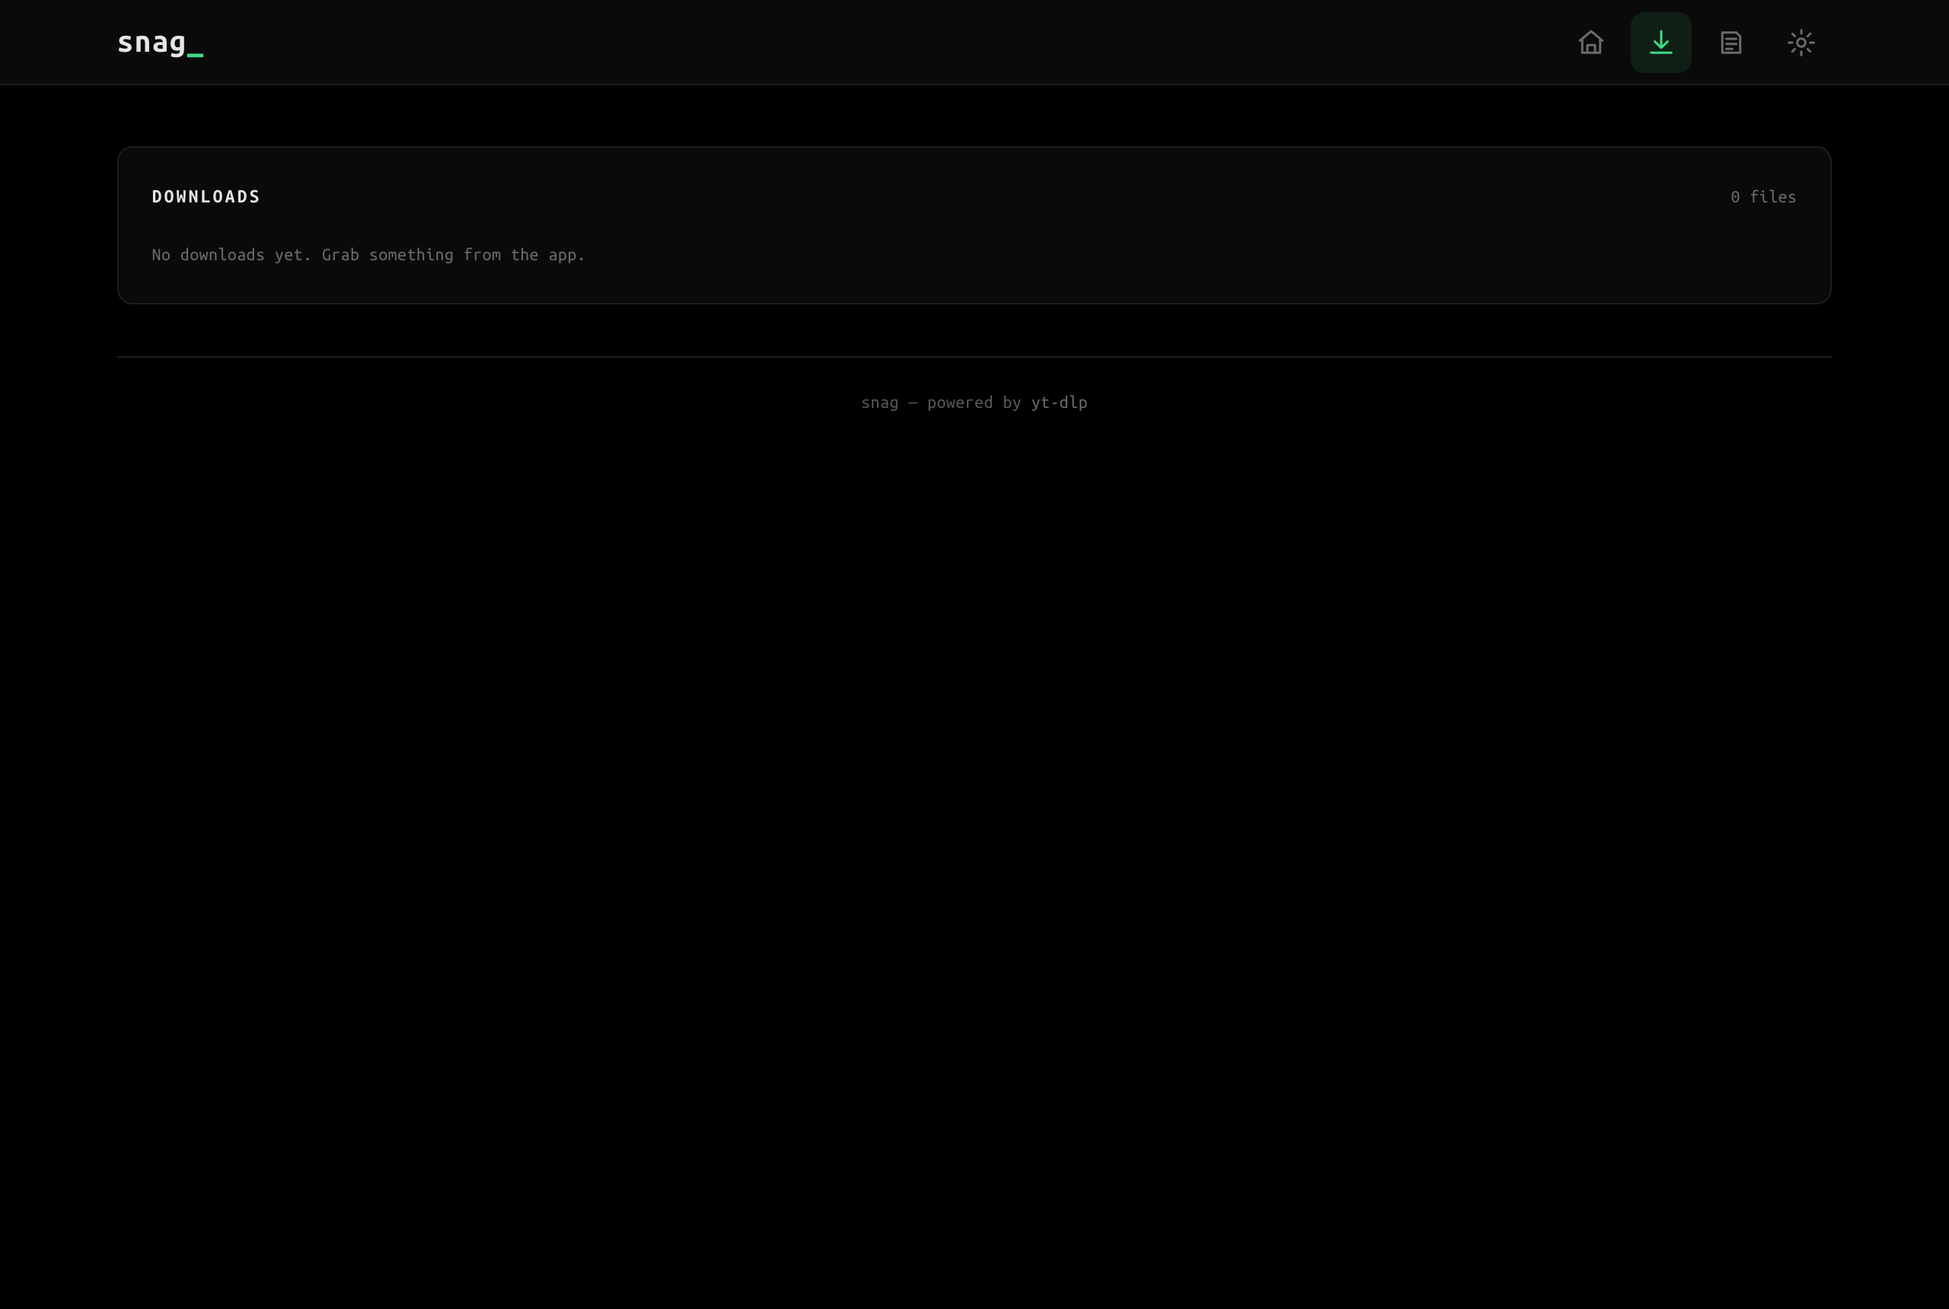
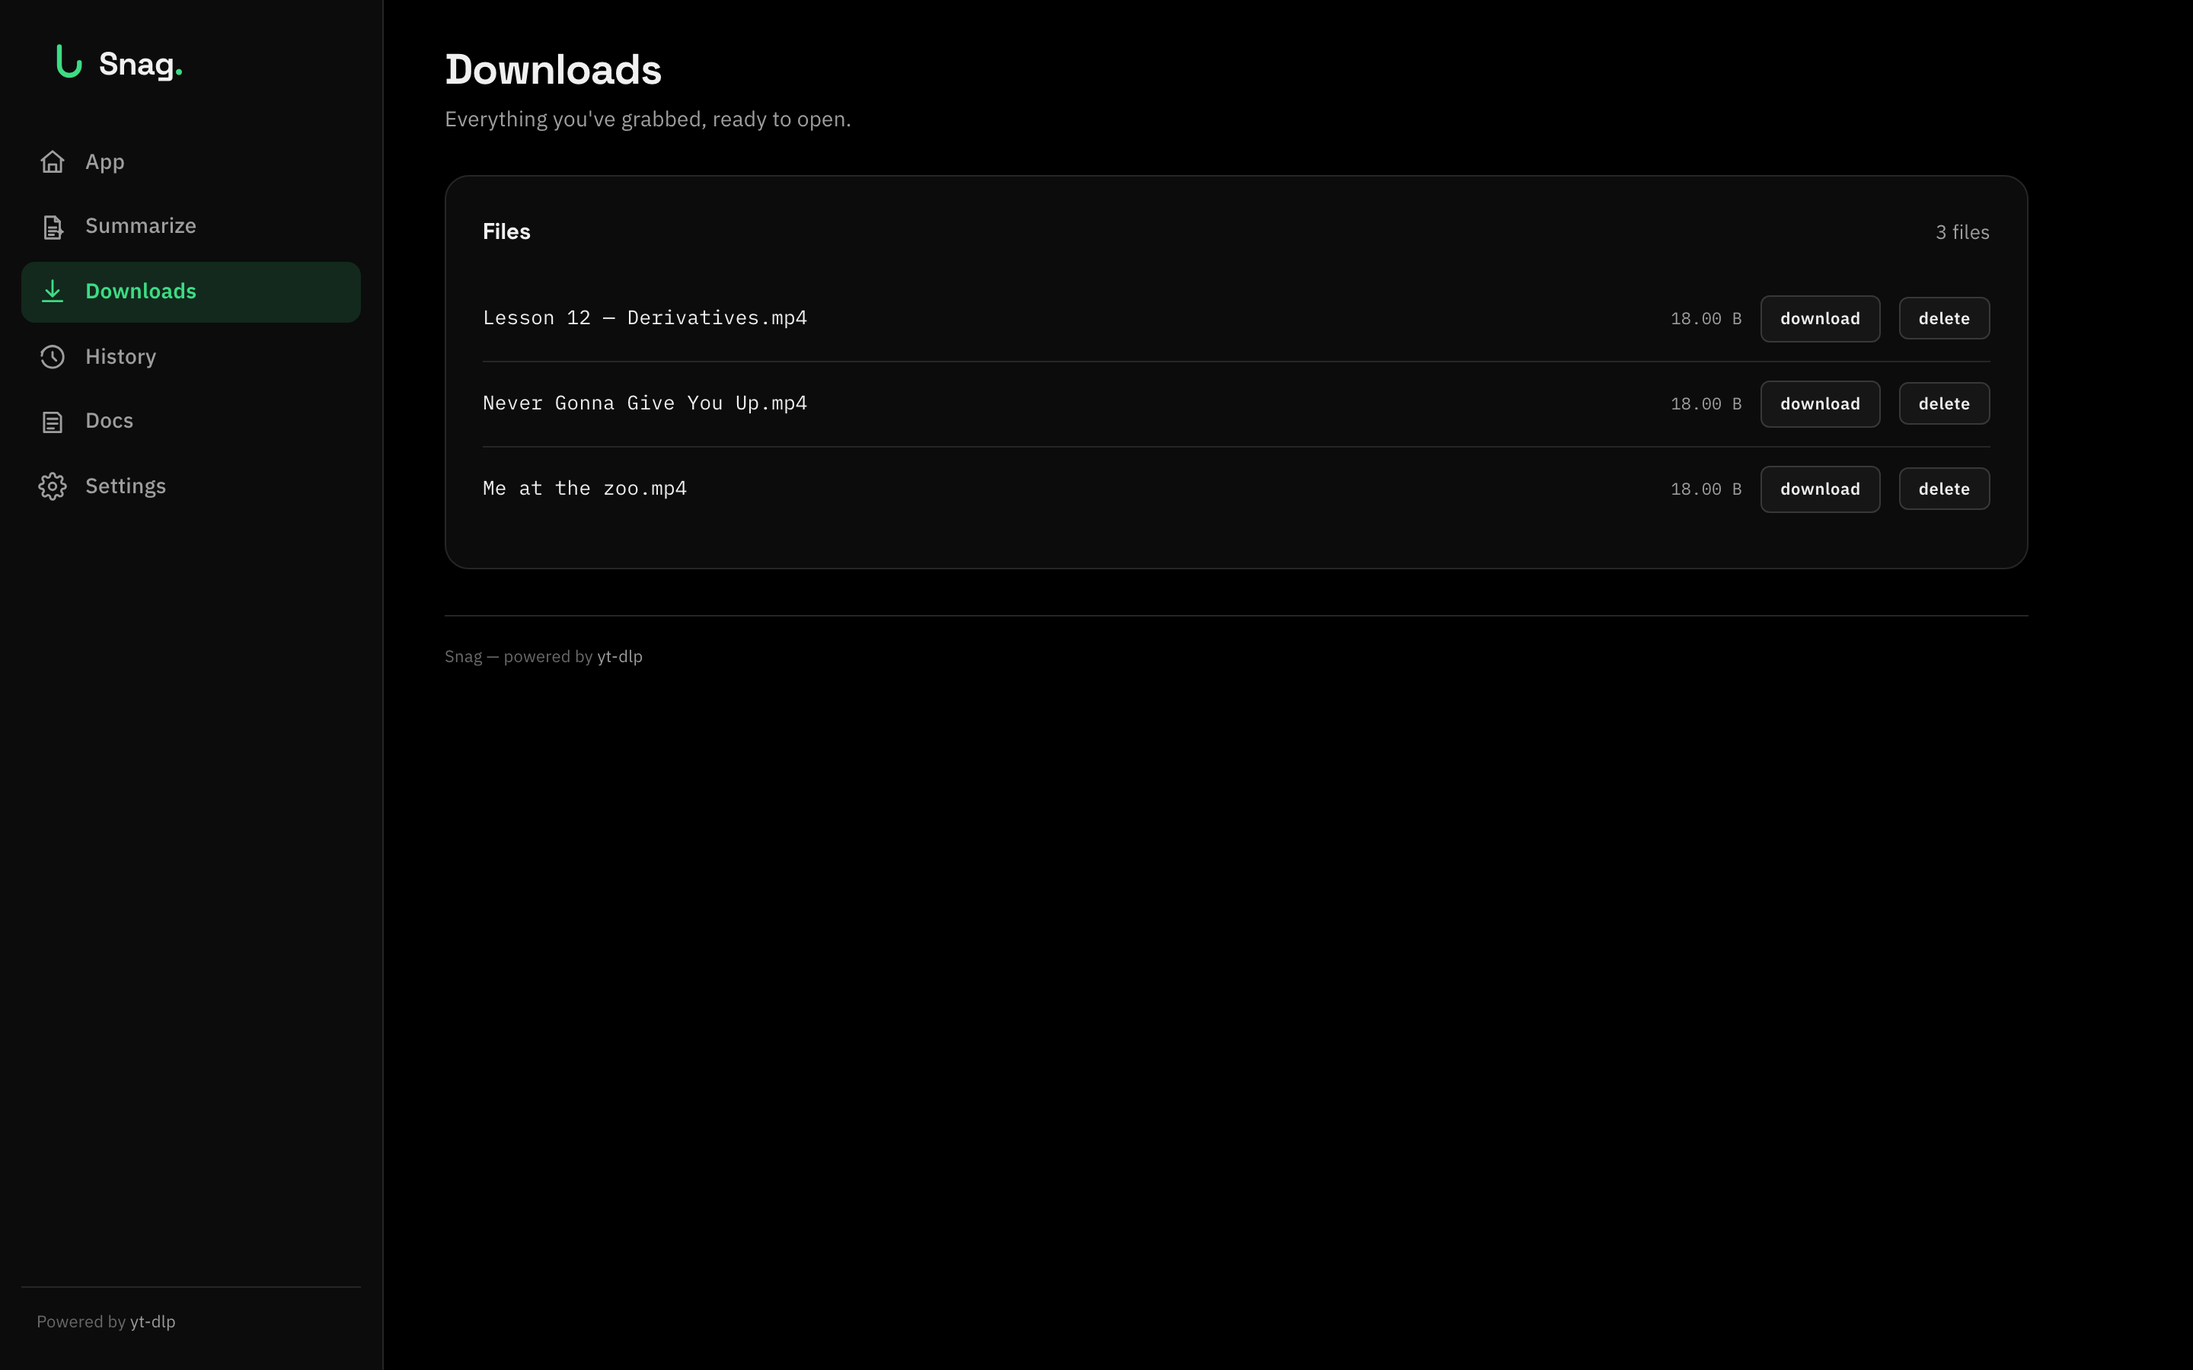
Add docs landing page with hero screenshot and social image
- New src/pages/index.js landing page (hero, features, docs links)
- Updated screenshots in docs-assets/ and docusaurus/static/img/
- New snag-social.png for OG/meta cards
- Remove slug: / from introduction.md so the landing page owns the
  root route and the doc gets its natural /introduction path

diff --git a/docusaurus/src/pages/index.js b/docusaurus/src/pages/index.js
@@ -1,0 +1,179 @@
+import React from 'react';
+import Link from '@docusaurus/Link';
+import useBaseUrl from '@docusaurus/useBaseUrl';
+import Layout from '@theme/Layout';
+import styles from './index.module.css';
+
+const features = [
+  {
+    icon: (
+      <svg viewBox="0 0 24 24" fill="none" stroke="currentColor" strokeWidth="2" strokeLinecap="round" strokeLinejoin="round" width="22" height="22"><path d="M12 3v12m0 0l-4-4m4 4l4-4" /><path d="M4 21h16" /></svg>
+    ),
+    title: 'Single videos',
+    desc: 'Best, 1080p, 720p or 480p — or pure audio with selectable bitrate and codec.',
+  },
+  {
+    icon: (
+      <svg viewBox="0 0 24 24" fill="none" stroke="currentColor" strokeWidth="2" strokeLinecap="round" strokeLinejoin="round" width="22" height="22"><rect x="3" y="3" width="7" height="7" rx="1.5" /><rect x="14" y="3" width="7" height="7" rx="1.5" /><rect x="3" y="14" width="7" height="7" rx="1.5" /><rect x="14" y="14" width="7" height="7" rx="1.5" /></svg>
+    ),
+    title: 'Bulk downloads',
+    desc: 'Whole playlists, channels and user profiles in one go — resumable and cancelable.',
+  },
+  {
+    icon: (
+      <svg viewBox="0 0 24 24" fill="none" stroke="currentColor" strokeWidth="2" strokeLinecap="round" strokeLinejoin="round" width="22" height="22"><path d="M9 18V5l10-2v13" /><circle cx="6.5" cy="18" r="2.5" /><circle cx="16.5" cy="16" r="2.5" /></svg>
+    ),
+    title: 'Audio extraction',
+    desc: 'MP3, M4A, WAV, OGG and FLAC with selectable bitrate — 5 codecs, no CLI.',
+  },
+  {
+    icon: (
+      <svg viewBox="0 0 24 24" fill="none" stroke="currentColor" strokeWidth="2" strokeLinecap="round" strokeLinejoin="round" width="22" height="22"><path d="M12 3l1.9 4.8L18.7 9.7l-4.8 1.9L12 16.4l-1.9-4.8L5.3 9.7l4.8-1.9z" /><path d="M19 15l.8 2 2 .8-2 .8-.8 2-.8-2-2-.8 2-.8z" /></svg>
+    ),
+    title: 'AI Summarize',
+    desc: 'Turn any video into a clean Markdown article with your own OpenAI-compatible endpoint.',
+  },
+  {
+    icon: (
+      <svg viewBox="0 0 24 24" fill="none" stroke="currentColor" strokeWidth="2" strokeLinecap="round" strokeLinejoin="round" width="22" height="22"><path d="M22 12h-4l-3 8L9 4l-3 8H2" /></svg>
+    ),
+    title: 'Live progress',
+    desc: 'Real-time per-file progress bars with bulk file-by-file tracking.',
+  },
+  {
+    icon: (
+      <svg viewBox="0 0 24 24" fill="none" stroke="currentColor" strokeWidth="2" strokeLinecap="round" strokeLinejoin="round" width="22" height="22"><path d="M23 4v6h-6" /><path d="M1 20v-6h6" /><path d="M3.5 9a9 9 0 0 1 14.9-3.4L23 10M1 14l4.6 4.4A9 9 0 0 0 20.5 15" /></svg>
+    ),
+    title: 'Resumable',
+    desc: 'Interrupt a download and pick up where you left off — files on disk are skipped.',
+  },
+];
+
+const docs = [
+  { to: 'deployment', title: 'Deployment', desc: 'Docker, systemd, PM2, Mac/Windows, HTTPS & troubleshooting.' },
+  { to: 'docker', title: 'Docker Deep-Dive', desc: 'Image internals, env vars, volumes, Compose and updates.' },
+  { to: 'configuration', title: 'Configuration', desc: 'Every env var, the auth model and the full HTTP API.' },
+  { to: 'code-reference', title: 'Code Reference', desc: 'A human-written walkthrough of snag.py and the frontend.' },
+  { to: 'yt-dlp-flags', title: 'yt-dlp Flags', desc: 'Every yt-dlp flag Snag exposes and what each does.' },
+  { to: 'ai-summarize', title: 'AI Summarize', desc: 'Setup, config and the transcript → article pipeline.' },
+  { to: 'changelog', title: 'Changelog', desc: 'What changed, version by version.' },
+];
+
+export default function Home() {
+  const heroShot = useBaseUrl('/img/snag-ui.png');
+  return (
+    <Layout
+      title="Snag — self-hosted web UI for yt-dlp"
+      description="Snag is a minimal, self-hosted web UI for yt-dlp: grab videos, playlists, channels and audio from your browser — plus an AI Summarize pipeline.">
+      <main>
+        <section className={styles.hero}>
+          <div className={styles.heroScrim} />
+          <div className={styles.heroInner}>
+            <div className={styles.heroCopy}>
+              <div className={styles.badge}>Self-hosted · v1.3.0</div>
+              <h1 className={styles.heroTitle}>
+                Grab videos, playlists &amp; audio <span className={styles.accent}>from your browser.</span>
+              </h1>
+              <p className={styles.heroSub}>
+                Snag is a minimal, self-hosted web UI for <strong>yt-dlp</strong> — paste a link,
+                pick your options, and watch it download with live progress. Plus an AI
+                Summarize tool that turns any video into a clean Markdown article.
+              </p>
+              <div className={styles.ctaRow}>
+                <Link className="button button--lg" style={{ background: '#3ddc84', color: '#07140c', fontWeight: 800, border: 'none' }} to="introduction">
+                  Start the documentation
+                </Link>
+                <Link
+                  className="button button--lg"
+                  style={{ background: 'transparent', color: '#e8ecf1', border: '1px solid #2f3a45' }}
+                  href="https://github.com/drbiobit/snag">
+                  View on GitHub
+                </Link>
+              </div>
+              <div className={styles.pills}>
+                <span className={styles.pill}>Python 3.10+</span>
+                <span className={styles.pill}>Docker</span>
+                <span className={styles.pill}>No build step</span>
+                <span className={styles.pill}>MIT</span>
+              </div>
+            </div>
+            <div className={styles.heroShot}>
+              <div className={styles.frame}>
+                <div className={styles.shine} />
+                <div className={styles.frameBar}>
+                  <span className={`${styles.dot} ${styles.r}`} />
+                  <span className={`${styles.dot} ${styles.y}`} />
+                  <span className={`${styles.dot} ${styles.g}`} />
+                  <span className={styles.urlBar}><b>localhost</b>:8000 · downloading</span>
+                </div>
+                <img className={styles.frameShot} src={heroShot} alt="Snag — paste a link, pick options, download with live progress" />
+              </div>
+            </div>
+          </div>
+        </section>
+
+        <section className={styles.section}>
+          <div className={styles.sectionInner}>
+            <div className={styles.eyebrow}>What it does</div>
+            <h2 className={styles.sectionTitle}>Everything yt-dlp can do, in a browser</h2>
+            <p className={styles.sectionDesc}>
+              No CLI, no build step, no third-party accounts. It runs on your own box — your
+              downloads never leave your network.
+            </p>
+            <div className={styles.features}>
+              {features.map((f) => (
+                <div key={f.title} className={styles.feature}>
+                  <div className={styles.featIcon}>{f.icon}</div>
+                  <h3 className={styles.featTitle}>{f.title}</h3>
+                  <p className={styles.featDesc}>{f.desc}</p>
+                </div>
+              ))}
+            </div>
+          </div>
+        </section>
+
+        <section className={`${styles.section} ${styles.sectionAlt}`}>
+          <div className={styles.sectionInner}>
+            <div className={styles.eyebrow}>Quick start</div>
+            <div className={styles.quickRow}>
+              <div className={styles.quickCopy}>
+                <h2 className={styles.sectionTitle}>Up in 30 seconds</h2>
+                <p className={styles.sectionDesc}>
+                  Pull the prebuilt image, run it, and open your browser. Account setup happens
+                  on first visit — nothing to configure up front.
+                </p>
+              </div>
+              <div className={styles.codeBlock}>
+                <div className={styles.codeBar}>
+                  <span className={`${styles.dot} ${styles.r}`} />
+                  <span className={`${styles.dot} ${styles.y}`} />
+                  <span className={`${styles.dot} ${styles.g}`} />
+                </div>
+                <pre className={styles.codeBody}><code><span className={styles.dim}># pull the image…</span>\ndocker pull <span className={styles.green}>ghcr.io/drbiobit/snag:latest</span>\n\n<span className={styles.dim}># …and launch it</span>\ndocker run -d --name snag -p 8000:8000 \
+  -v ./downloads:/data <span className={styles.green}>ghcr.io/drbiobit/snag:latest</span></code></pre>
+              </div>
+            </div>
+          </div>
+        </section>
+
+        <section className={styles.section}>
+          <div className={styles.sectionInner}>
+            <div className={styles.eyebrow}>Documentation</div>
+            <h2 className={styles.sectionTitle}>Guides &amp; references</h2>
+            <p className={styles.sectionDesc}>
+              Everything you need — from first deploy to reading the source.
+            </p>
+            <div className={styles.docsGrid}>
+              {docs.map((d) => (
+                <Link key={d.to} to={d.to} className={styles.docsCard}>
+                  <div className={styles.docsCardTitle}>{d.title}</div>
+                  <div className={styles.docsCardDesc}>{d.desc}</div>
+                </Link>
+              ))}
+            </div>
+          </div>
+        </section>
+      </main>
+    </Layout>
+  );
+}

diff --git a/docusaurus/src/pages/index.module.css b/docusaurus/src/pages/index.module.css
@@ -1,0 +1,200 @@
+/* ── Snag landing page ────────────────────────────────────────────────
+   Self-contained dark "precision instrument" hero that matches the app.
+   The docs pages themselves stay light/readable; only this page opts out.
+   ─────────────────────────────────────────────────────────────────── */
+
+.hero {
+  position: relative;
+  overflow: hidden;
+  background: #0a0c0f;
+  color: #e8ecf1;
+}
+.hero::before {
+  content: '';
+  position: absolute;
+  inset: -40% -20% auto -20%;
+  height: 1000px;
+  background:
+    radial-gradient(640px 480px at 78% 18%, rgba(61, 220, 132, 0.22), transparent 62%),
+    radial-gradient(700px 560px at 12% 84%, rgba(46, 94, 140, 0.35), transparent 65%);
+  pointer-events: none;
+}
+.heroScrim {
+  position: absolute;
+  inset: 0;
+  background-image:
+    linear-gradient(rgba(255,255,255,0.035) 1px, transparent 1px),
+    linear-gradient(90deg, rgba(255,255,255,0.035) 1px, transparent 1px);
+  background-size: 56px 56px;
+  mask-image: radial-gradient(ellipse 95% 85% at 50% 40%, #000 55%, transparent 100%);
+  pointer-events: none;
+}
+.heroInner {
+  position: relative;
+  display: grid;
+  grid-template-columns: 1.05fr 1fr;
+  gap: 3.5rem;
+  align-items: center;
+  max-width: 1180px;
+  margin: 0 auto;
+  padding: 5.5rem 1.5rem 4.5rem;
+}
+.badge {
+  display: inline-flex;
+  align-items: center;
+  gap: 0.5rem;
+  font-size: 0.72rem;
+  font-weight: 700;
+  letter-spacing: 0.14em;
+  text-transform: uppercase;
+  color: #6ee7a8;
+  background: rgba(61, 220, 132, 0.1);
+  border: 1px solid rgba(61, 220, 132, 0.32);
+  border-radius: 999px;
+  padding: 0.42rem 0.95rem;
+  margin-bottom: 1.6rem;
+}
+.badge::before {
+  content: '';
+  width: 7px; height: 7px;
+  border-radius: 50%;
+  background: #3ddc84;
+  box-shadow: 0 0 10px #3ddc84;
+}
+.heroTitle {
+  font-size: clamp(2.4rem, 4.6vw, 3.6rem);
+  line-height: 1.08;
+  font-weight: 800;
+  letter-spacing: -0.03em;
+  margin: 0 0 1.4rem;
+  color: #f4f7fa;
+}
+.heroTitle .accent {
+  color: #5ee79f;
+  background: linear-gradient(120deg, #5ee79f 20%, #3ddc84 80%);
+  -webkit-background-clip: text;
+  background-clip: text;
+  -webkit-text-fill-color: transparent;
+}
+.heroSub {
+  font-size: 1.08rem;
+  line-height: 1.65;
+  color: #b9c2ce;
+  max-width: 32rem;
+  margin: 0 0 2rem;
+}
+.ctaRow { display: flex; gap: 0.85rem; flex-wrap: wrap; margin-bottom: 1.9rem; }
+.pills { display: flex; gap: 0.55rem; flex-wrap: wrap; }
+.pill {
+  font-size: 0.72rem;
+  font-weight: 600;
+  letter-spacing: 0.04em;
+  color: #aeb8c4;
+  border: 1px solid #232a34;
+  background: #11151b;
+  border-radius: 8px;
+  padding: 0.3rem 0.65rem;
+}
+
+/* browser-chrome screenshot frame */
+.frame {
+  position: relative;
+  border-radius: 14px;
+  background: #11151b;
+  border: 1px solid #232a34;
+  box-shadow: 0 40px 90px -30px rgba(0,0,0,0.9), 0 0 0 1px rgba(61,220,132,0.06), 0 0 120px -40px rgba(61,220,132,0.25);
+  overflow: hidden;
+}
+.frameBar {
+  display: flex; align-items: center; gap: 0.55rem;
+  padding: 0.65rem 0.85rem;
+  background: #161b22;
+  border-bottom: 1px solid #232a34;
+}
+.dot { width: 11px; height: 11px; border-radius: 50%; flex: none; }
+.dot.r { background: #ff5f57; } .dot.y { background: #febc2e; } .dot.g { background: #28c840; }
+.urlBar {
+  flex: 1;
+  font-size: 0.72rem;
+  color: #8fa0b0;
+  background: #0a0d11;
+  border: 1px solid #232a34;
+  border-radius: 7px;
+  padding: 0.32rem 0.7rem;
+  margin-left: 0.35rem;
+  display: flex; align-items: center; gap: 0.4rem;
+}
+.urlBar b { color: #b7c3d1; font-weight: 600; }
+.frameShot { display: block; width: 100%; border: 0; }
+.shine { position: absolute; inset: 0; border-radius: 14px; pointer-events: none; background: linear-gradient(110deg, transparent 30%, rgba(255,255,255,0.07) 46%, transparent 62%); }
+
+/* sections */
+.section { padding: 4.5rem 1.5rem; }
+.sectionAlt { background: #f5f7fa; }
+.sectionInner { max-width: 1180px; margin: 0 auto; }
+.eyebrow {
+  font-size: 0.74rem; font-weight: 700; letter-spacing: 0.14em; text-transform: uppercase;
+  color: #1f9d57;
+  display: flex; align-items: center; gap: 0.7rem; margin-bottom: 0.9rem;
+}
+.eyebrow::after { content: ''; flex: 1; height: 1px; background: linear-gradient(90deg, rgba(61,220,132,0.35), transparent); }
+.sectionTitle { font-size: clamp(1.6rem, 2.8vw, 2.15rem); font-weight: 800; letter-spacing: -0.025em; margin: 0 0 0.7rem; color: #101820; }
+.sectionDesc { color: #4a5563; font-size: 1.02rem; line-height: 1.6; max-width: 44rem; margin: 0 0 2rem; }
+
+/* feature cards */
+.features { display: grid; grid-template-columns: repeat(3, 1fr); gap: 1.1rem; }
+.feature {
+  background: #fff; border: 1px solid #e5e9ef; border-radius: 16px;
+  padding: 1.5rem;
+  box-shadow: 0 1px 2px rgba(16,24,32,0.04);
+  transition: transform .18s ease, box-shadow .18s ease, border-color .18s ease;
+}
+.feature:hover { transform: translateY(-3px); border-color: #cde7d6; box-shadow: 0 14px 34px -18px rgba(31,157,87,0.35); }
+.featIcon {
+  width: 42px; height: 42px; border-radius: 12px;
+  display: flex; align-items: center; justify-content: center;
+  background: #e9f9ef; color: #1f9d57; margin-bottom: 1rem;
+}
+.featTitle { font-size: 1.02rem; font-weight: 700; color: #14202b; margin: 0 0 0.4rem; }
+.featDesc { font-size: 0.9rem; line-height: 1.55; color: #55606d; margin: 0; }
+
+/* quickstart code */
+.codeBlock {
+  max-width: 640px;
+  background: #0d1015; border: 1px solid #1d232c; border-radius: 14px;
+  box-shadow: 0 24px 60px -28px rgba(0,0,0,0.55);
+  overflow: hidden;
+}
+.codeBar { display: flex; align-items: center; gap: 0.5rem; padding: 0.6rem 0.9rem; background: #141923; border-bottom: 1px solid #1d232c; }
+.codeBody {
+  margin: 0; padding: 1rem 1.25rem; overflow-x: auto;
+  font-family: 'Source Code Pro', ui-monospace, monospace;
+  font-size: 0.88rem; line-height: 1.7; color: #d7e7dc;
+}
+.codeBody .dim { color: #5d6a78; }
+.codeBody .green { color: #5ee79f; }
+.quickRow { display: flex; gap: 3rem; align-items: flex-start; flex-wrap: wrap; }
+.quickCopy { flex: 1 1 320px; min-width: 280px; }
+
+/* docs grid */
+.docsGrid { display: grid; grid-template-columns: repeat(4, 1fr); gap: 1rem; }
+.docsCard {
+  display: block; text-decoration: none !important; color: inherit;
+  background: #fff; border: 1px solid #e5e9ef; border-radius: 14px; padding: 1.15rem 1.2rem;
+  transition: transform .16s ease, border-color .16s ease, box-shadow .16s ease;
+}
+.docsCard:hover { transform: translateY(-2px); border-color: #b7e2c4; box-shadow: 0 14px 30px -18px rgba(31,157,87,0.3); }
+.docsCardTitle { font-size: 0.95rem; font-weight: 700; color: #14202b; margin-bottom: 0.35rem; }
+.docsCardDesc { font-size: 0.82rem; color: #5b6572; line-height: 1.45; }
+
+@media (max-width: 1023px) {
+  .heroInner { grid-template-columns: 1fr; gap: 2.4rem; padding-top: 3.6rem; }
+  .heroShot { order: -1; }
+  .features { grid-template-columns: repeat(2, 1fr); }
+  .docsGrid { grid-template-columns: repeat(2, 1fr); }
+}
+@media (max-width: 560px) {
+  .features, .docsGrid { grid-template-columns: 1fr; }
+  .heroInner { padding-left: 1rem; padding-right: 1rem; }
+  .section { padding: 3rem 1rem; }
+}

diff --git a/docusaurus/docs/introduction.md b/docusaurus/docs/introduction.md
@@ -1,7 +1,6 @@
 ---
 title: Introduction
 sidebar_position: 0
-slug: /
 ---
 
 # Snag — Documentation
